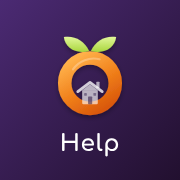
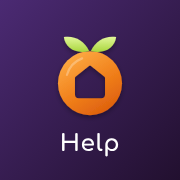
Icona app: il vuoto della O è una casa (scelta di Stefano), generatore icone
- strumenti/icone.py: logo con forma della casa a scelta (classica, camino, baita, porta)
- icone rigenerate con la forma classica; test_app 12/12

Claude-Session: https://claude.ai/code/session_01LcuinfhGbhfMF9GwfxUP1C

Changed region(s): [[0.3611, 0.3056, 0.6111, 0.5833], [0.3056, 0.3889, 0.3333, 0.4167]]

diff --git a/strumenti/icone.py b/strumenti/icone.py
@@ -1,0 +1,86 @@
+"""Genera il logo dell'app (O con germogli, il vuoto della O a forma di casa) e le icone PNG.
+
+Uso:  python3 strumenti/icone.py [forma]
+Forme della casa: classica (predefinita), camino, baita, porta. Scrive icone/logo.svg,
+icone/logo-maskable.svg, icone/favicon.svg e i PNG (192, 512, maskable 512, Apple 180, favicon 48),
+renderizzati con Chromium (Playwright) e il font Comfortaa di fonts.css.
+"""
+import pathlib
+import sys
+
+RADICE = pathlib.Path(__file__).resolve().parent.parent
+ICONE = RADICE / "icone"
+
+# Casa ritagliata nel vuoto della O (anello: centro 256,300, raggio esterno 147, interno 85).
+FORME = {
+    "classica": '<path d="M256 226 L318 276 L318 352 Q318 362 308 362 L204 362 Q194 362 194 352 L194 276 Z" fill="#000" stroke="#000" stroke-width="14" stroke-linejoin="round"/>',
+    "camino": '<path d="M256 228 L290 255 L290 236 L308 236 L308 270 L320 280 L320 352 Q320 362 310 362 L202 362 Q192 362 192 352 L192 280 Z" fill="#000" stroke="#000" stroke-width="12" stroke-linejoin="round"/>',
+    "baita": '<path d="M256 214 L314 292 L314 356 Q314 364 306 364 L206 364 Q198 364 198 356 L198 292 Z" fill="#000" stroke="#000" stroke-width="12" stroke-linejoin="round"/>',
+    "porta": '<path d="M256 226 L318 276 L318 352 Q318 362 308 362 L204 362 Q194 362 194 352 L194 276 Z" fill="#000" stroke="#000" stroke-width="14" stroke-linejoin="round"/>'
+             '<path d="M240 369 L240 330 A16 16 0 0 1 272 330 L272 369 Z" fill="#fff"/>',
+}
+
+DEFS = ('<linearGradient id="{p}bg" x1="0" y1="0" x2="1" y2="1"><stop offset="0" stop-color="#4B2A73"/><stop offset="1" stop-color="#22102F"/></linearGradient>'
+        '<linearGradient id="{p}or" x1="0.2" y1="0" x2="0.8" y2="1"><stop offset="0" stop-color="#FFB14A"/><stop offset=".55" stop-color="#F07F1A"/><stop offset="1" stop-color="#D9580B"/></linearGradient>'
+        '<linearGradient id="{p}lf" x1="0" y1="0" x2="0" y2="1"><stop offset="0" stop-color="#E2F79A"/><stop offset="1" stop-color="#A9D63E"/></linearGradient>'
+        '<filter id="{p}sh" x="-20%" y="-20%" width="140%" height="140%"><feDropShadow dx="0" dy="10" stdDeviation="12" flood-color="#000" flood-opacity=".35"/></filter>'
+        '<mask id="{p}buco" maskUnits="userSpaceOnUse" x="0" y="0" width="512" height="512"><rect width="512" height="512" fill="#000"/>'
+        '<circle cx="256" cy="300" r="147" fill="#fff"/>{casa}</mask>')
+SEGNO = ('<g filter="url(#{p}sh)"><rect x="100" y="140" width="312" height="320" fill="url(#{p}or)" mask="url(#{p}buco)"/>'
+         '<path d="M256 186 V138" stroke="url(#{p}lf)" stroke-width="16" stroke-linecap="round"/>'
+         '<path d="M252 152 C230 104 184 80 136 88 C142 138 190 168 252 152 Z" fill="url(#{p}lf)"/>'
+         '<path d="M260 152 C282 104 328 80 376 88 C370 138 322 168 260 152 Z" fill="url(#{p}lf)"/></g>'
+         '<path d="M150 262 A116 116 0 0 1 220 186" fill="none" stroke="#fff" stroke-width="10" stroke-linecap="round" opacity=".28"/>')
+TESTO = '<text x="256" y="{y}" text-anchor="middle" font-family="Comfortaa, Trebuchet MS, sans-serif" font-weight="700" font-size="{fs}" fill="#FFFFFF" letter-spacing="2">Help</text>'
+
+
+def svg(forma="classica", tipo="icona", p="oc-"):
+    defs = DEFS.format(p=p, casa=FORME[forma])
+    segno = SEGNO.format(p=p)
+    if tipo == "icona":
+        corpo = f'<rect width="512" height="512" rx="112" fill="url(#{p}bg)"/><g transform="translate(256 205) scale(0.8) translate(-256 -265)">{segno}</g>' + TESTO.format(y=470, fs=84)
+    elif tipo == "maskable":
+        corpo = f'<rect width="512" height="512" fill="url(#{p}bg)"/><g transform="translate(256 215) scale(0.62) translate(-256 -265)">{segno}</g>' + TESTO.format(y=430, fs=66)
+    else:  # favicon: senza scritta, segno grande
+        corpo = f'<rect width="512" height="512" rx="112" fill="url(#{p}bg)"/><g transform="translate(256 262) scale(0.98) translate(-256 -265)">{segno}</g>'
+    return f'<svg xmlns="http://www.w3.org/2000/svg" viewBox="0 0 512 512"><defs>{defs}</defs>{corpo}</svg>\n'
+
+
+def scrivi_png(lavori):
+    from playwright.sync_api import sync_playwright
+    fonts = (RADICE / "fonts.css").as_uri()
+    with sync_playwright() as pw:
+        browser = pw.chromium.launch()
+        for sorgente, lato, uscita, trasparente in lavori:
+            codice = sorgente.read_text().replace("<svg ", f'<svg width="{lato}" height="{lato}" style="display:block" ', 1)
+            tmp = ICONE / "_tmp.html"
+            tmp.write_text(f'<html><head><link rel="stylesheet" href="{fonts}"></head><body style="margin:0;background:transparent">{codice}</body></html>')
+            pagina = browser.new_page(viewport={"width": lato, "height": lato})
+            pagina.goto(tmp.as_uri())
+            pagina.evaluate("document.fonts.ready")
+            pagina.wait_for_timeout(300)
+            pagina.screenshot(path=str(ICONE / uscita), omit_background=trasparente)
+            pagina.close()
+            tmp.unlink()
+        browser.close()
+
+
+def main():
+    forma = sys.argv[1] if len(sys.argv) > 1 else "classica"
+    if forma not in FORME:
+        sys.exit(f"Forma sconosciuta: {forma}. Disponibili: {', '.join(FORME)}")
+    (ICONE / "logo.svg").write_text(svg(forma, "icona"))
+    (ICONE / "logo-maskable.svg").write_text(svg(forma, "maskable"))
+    (ICONE / "favicon.svg").write_text(svg(forma, "favicon"))
+    scrivi_png([
+        (ICONE / "logo.svg", 192, "icona-192.png", True),
+        (ICONE / "logo.svg", 512, "icona-512.png", True),
+        (ICONE / "logo-maskable.svg", 512, "icona-maskable-512.png", False),
+        (ICONE / "logo-maskable.svg", 180, "apple-touch-icon.png", False),
+        (ICONE / "favicon.svg", 48, "favicon-48.png", True),
+    ])
+    print(f"icone generate con la casa '{forma}'")
+
+
+if __name__ == "__main__":
+    main()

diff --git a/CHANGELOG.md b/CHANGELOG.md
@@ -3,7 +3,7 @@
 ## 4.7.0 — 27/10/2026
 
 - App installabile (web app): `manifest.webmanifest`, icone in `icone/` (192, 512, maskable, Apple 180, favicon), service worker `sw.js` (pagine prima dalla rete, copia salvata se manca la rete; CSS/JS/icone salvati e aggiornati in sottofondo; nessuna richiesta verso altri siti), registrato da `app.js` in tutte le pagine. Sul telefono: "Aggiungi a schermata Home".
-- Logo (indicazioni di Stefano): la O con i germogli è la prima lettera della scritta "OrtoCasa Help" in testata e nel piè di pagina (non più un'icona a parte). Icona dell'app: la stessa O con dentro, in basso, una casetta bianca semitrasparente (tetto sporgente, comignolo, porta e finestre) che sormonta appena l'anello, e sotto la scritta "Help". Sorgenti `icone/logo.svg`, `icone/logo-maskable.svg`, `icone/favicon.svg` (favicon senza scritta).
+- Logo (indicazioni di Stefano): la O con i germogli è la prima lettera della scritta "OrtoCasa Help" in testata e nel piè di pagina (non più un'icona a parte). Icona dell'app: la stessa O, con il vuoto al centro a forma di casa, e sotto la scritta "Help". Generata da `strumenti/icone.py [forma]` (forme: classica, camino, baita, porta), che scrive `icone/logo.svg`, `logo-maskable.svg`, `favicon.svg` e i PNG.
 - Social: interruttore `config.json` nel ramo `social` (`pubblica: false` = tutto pronto ma niente pubblicato); 17 test.
 - Test: `tests/test_app.py` (12 verifiche: manifest, icone, service worker vero su localhost, lettura senza rete), aggiunto alla CI; la verifica online controlla manifest, service worker e icone.
 
